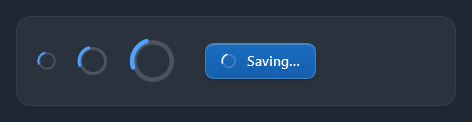
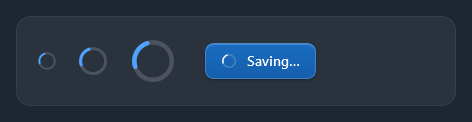
Update docs and screenshots for Nocturne.Wpf 0.1.1
Add the Sample apps page with pictures of both apps, and the new
ProgressRing picture.

diff --git a/docs/samples.md b/docs/samples.md
@@ -1,0 +1,106 @@
+---
+title: Sample apps
+nav_order: 5
+---
+
+# Sample apps
+
+The repository has two small applications built with Nocturne, to show the controls working together
+in the kind of window they are made for. Both are in the solution under `samples/`, use fixed sample
+data (`SampleData.cs`) and have one `UserControl` per page in `Views/`.
+
+```bash
+dotnet run --project samples/Nocturne.Wpf.Samples.Admin
+```
+
+```bash
+dotnet run --project samples/Nocturne.Wpf.Samples.Portal
+```
+
+Like the demo, both take `--snapshot <folder>` and render each page to a PNG (1280 × 800, off
+screen); the pictures on this page come from there.
+
+## Admin
+
+A staff administration tool. The main window is a `NocturneWindow` with a
+[`HamburgerMenu`](navigation.md) for the pages, a `Badged` notification button and a settings button
+in the title bar, and a `StatusBar` at the bottom.
+
+### Dashboard
+
+Accent and plain [`Tile`](buttons.md)s with the key figures, an [`InfoBar`](status.md) with an action
+button, and two cards: project budgets as `ProgressBar`s and a list of recent activity.
+
+![The Admin dashboard](screenshots/samples/admin-dashboard.png)
+
+### Employees
+
+A [`NocturneGrid`](lists.md) with filters in the column headers and a check box column next to a
+details form: `TextBox`, `ComboBox`, `DatePicker`, [`NumericUpDown`](inputs.md) and a toggle switch.
+The search box uses `Nocturne.Styles.TextBox.Search`; the tool bar has a primary button.
+
+![The Admin employees page](screenshots/samples/admin-employees.png)
+
+Delete asks first with a [`NocturneDialog`](window.md#dialogs):
+
+![The delete dialog](screenshots/samples/admin-dialog.png)
+
+The settings button opens a [`Flyout`](window.md#flyout) with the accent, the backdrop and the account:
+
+![The settings flyout](screenshots/samples/admin-settings.png)
+
+### Timesheets
+
+A `NocturneGrid` grouped by employee, with the week's hours, a total and a status column of
+`Nocturne.Styles.Tag`s (filtered from its header). Above it a week `ComboBox`, a
+[`DropDownButton`](buttons.md) for export and a primary [`SplitButton`](buttons.md); a `ProgressBar`
+below sums up the week.
+
+![The Admin timesheets page](screenshots/samples/admin-timesheets.png)
+
+### Projects
+
+A `TreeView` of customers and projects beside the chosen project: a budget card with a `ProgressBar`,
+the deadline and a [`Rating`](selection.md), the team, and the notes in an `Expander`.
+
+![The Admin projects page](screenshots/samples/admin-projects.png)
+
+## Portal
+
+A sales portal. The side bar is a `ListBox` with `Nocturne.Styles.ListBox.Navigation`, with a monthly
+target card under it; the user's name and a help button sit in the title bar.
+
+### Home
+
+A greeting, an `InfoBar`, four `Tile`s, the latest orders in a `ListView` and the top rated products
+with their `Rating`.
+
+![The Portal home page](screenshots/samples/portal-home.png)
+
+### Products
+
+A searchable product `ListBox` with a category `ComboBox`, and the chosen product: a warning
+`InfoBar`, `NumericUpDown`s for price and stock, a `Rating` and a `CheckBox`, the description in an
+`Expander`, and a `SplitButton` next to the primary Save button.
+
+![The Portal products page](screenshots/samples/portal-products.png)
+
+### Orders
+
+Two `DatePicker`s and an [`AutoSuggestBox`](inputs.md) for the customer above a `NocturneGrid` with
+filtered status and country columns, and the chosen order's lines in an `Expander` below.
+
+![The Portal orders page](screenshots/samples/portal-orders.png)
+
+### Customers
+
+An [`Accordion`](navigation.md) with a `TreeView` of customers by country, and the chosen customer in
+a `TabControl`: contact form, orders (`ListView`) and notes (multi-line `TextBox`).
+
+![The Portal customers page](screenshots/samples/portal-customers.png)
+
+### About
+
+A card with text and a `Hyperlink`.
+
+![The Portal about page](screenshots/samples/portal-about.png)

diff --git a/docs/index.md b/docs/index.md
@@ -42,6 +42,7 @@ standard control; the package adds the controls a desktop app usually needs on t
 | [Getting started](getting-started.md) | Install, merge the dictionary, the first window |
 | [Theme and accents](theming.md) | Backdrop, tint, light, accents, overriding brushes, the font |
 | [Controls](controls.md) | One page per group of controls, each with a picture and XAML |
+| [Sample apps](samples.md) | Two applications built with the theme, page by page |
 | [Reference](reference.md) | [Resource keys](resource-keys.md) and [helpers](helpers.md) (attached properties, template parts) |
 
 The pictures come from the demo app in `src/Nocturne.Wpf.Demo` (`--snapshot`); the one under each

diff --git a/docs/reference.md b/docs/reference.md
@@ -1,6 +1,6 @@
 ---
 title: Reference
-nav_order: 5
+nav_order: 6
 has_children: true
 ---
 
